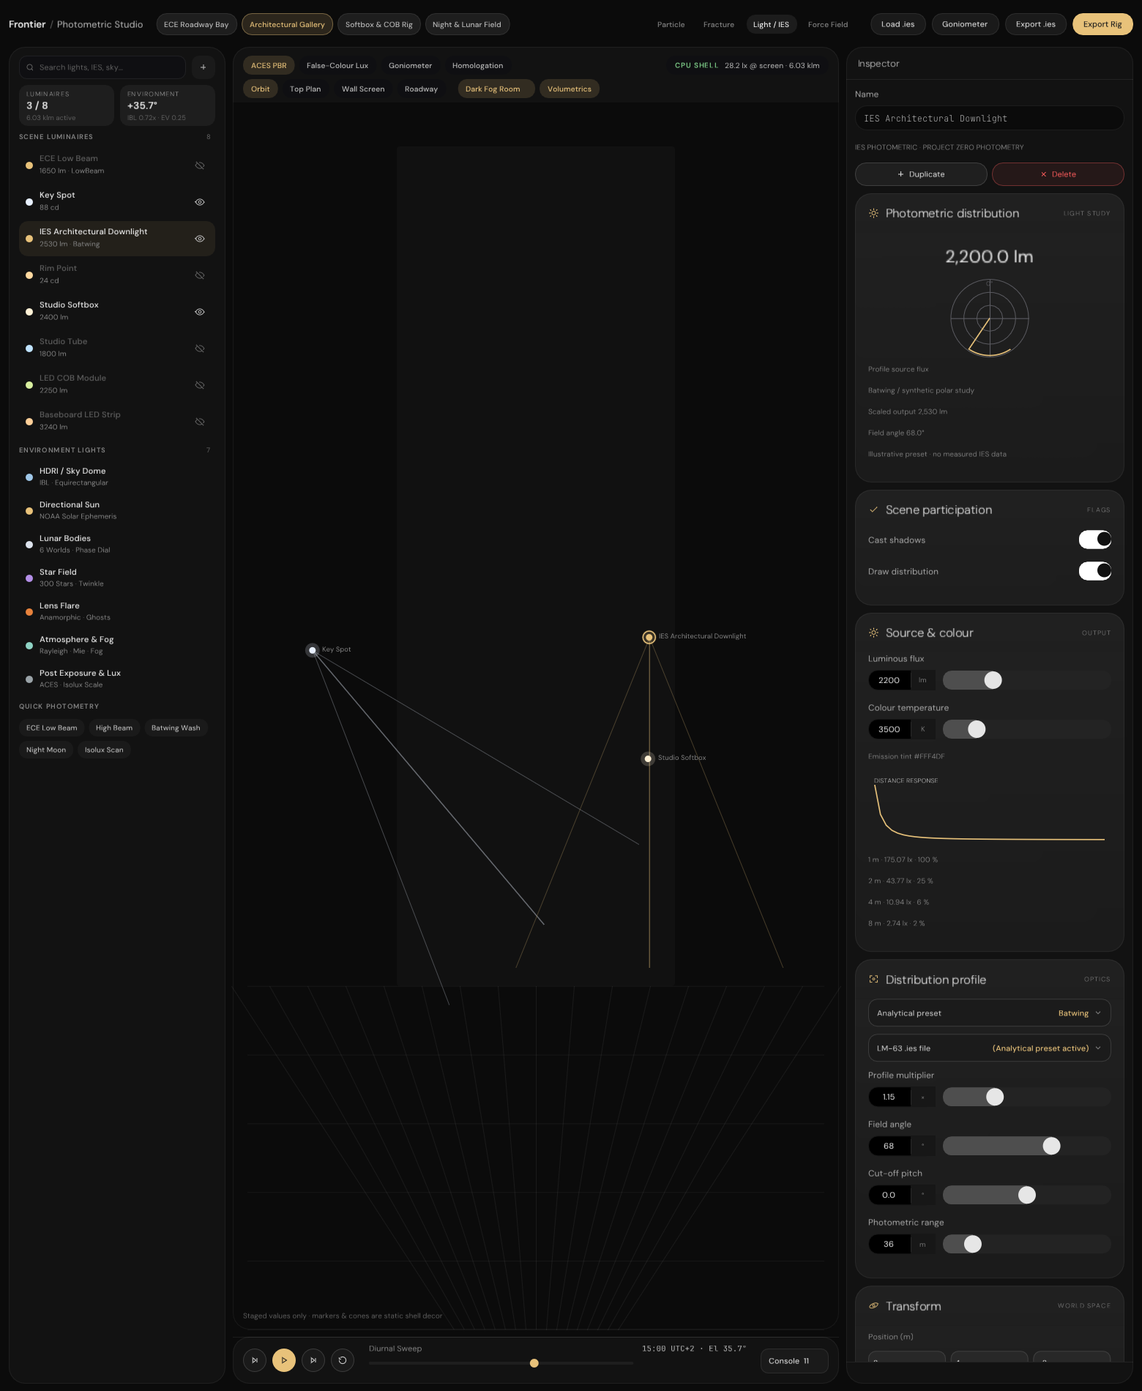
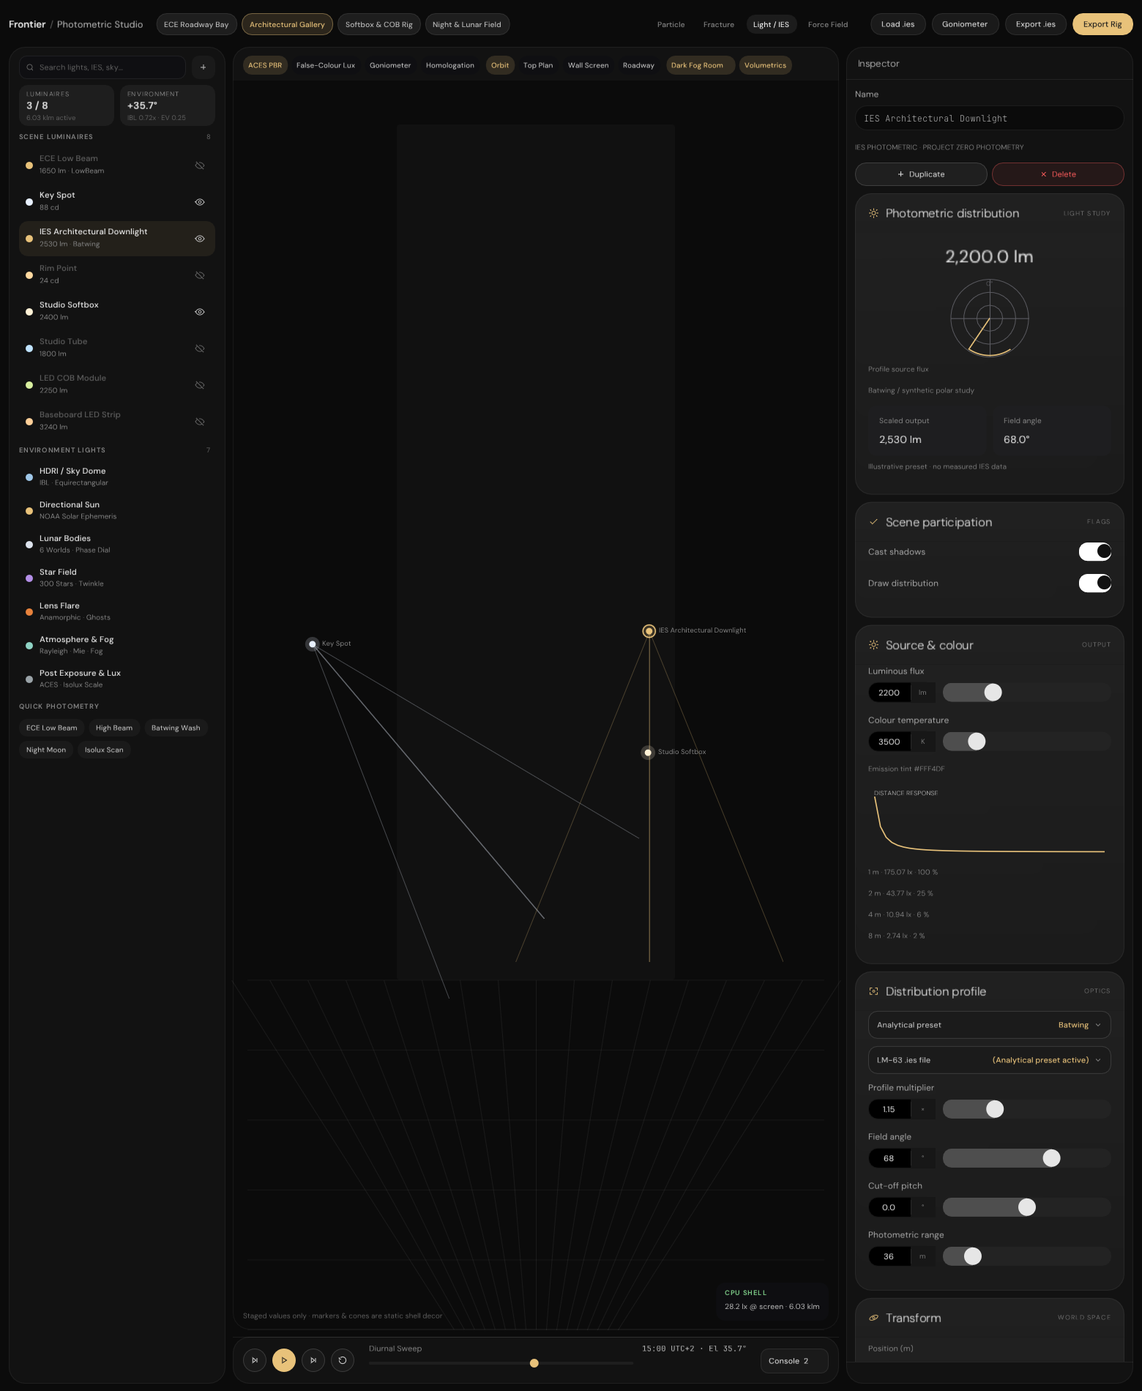
U5 fidelity pass: boot defaults, single-row HUD, preview tiles
Boot the default rig (6/8, 11.22 klm, 14:30 site time) with the roadway
tab highlighted but not applied, matching the reference boot flow; El
41.5 deg now matches the reference screenshot to the decimal. Collapse
the stage HUD to one compact pill row and park the telemetry chip at
the stage bottom-right like the reference backend readout. Render the
preview readings as side-by-side stat tiles. Re-pinned validation
(census 11220, lux 57-59, el 41-42) and refreshed all four evidence
frames.

diff --git a/Frontier/Engine/Interface/Workspaces/PhotometricWorkspace.cpp b/Frontier/Engine/Interface/Workspaces/PhotometricWorkspace.cpp
@@ -513,30 +513,23 @@ void ConstructAddDrawer(PhotometricWorkspaceState& State, const EditorTypefaces&
 void ConstructStageHud(PhotometricWorkspaceState& State, const EditorTypefaces& Faces, ImDrawList* DrawList, ImVec2 Min,
                        ImVec2 Max)
 {
+    // 📝 One compact pill row like the reference: lenses, cameras, then the room toggles. The telemetry chip
+    //    rides the stage bottom-right instead of crowding this row.
     PanelCursor Hud{ DrawList, &Faces, 1.0f, Min.x, Max.x - Min.x, Min.y };
-    // 📝 The telemetry chip is measured first so the lens pills can stop short of it; cameras and the room
-    //    toggles ride a second row because the full strip never fits beside the chip.
-    const double Klm = QueryPhotometricCensusLumens(State.Lights, 8) / 1000.0;
-    const double Lux = QueryPhotometricWallLux(State.Lights, 8);
-    char         Summary[96]{};
-    std::snprintf(Summary, sizeof(Summary), "%.1f lx @ screen · %.2f klm", Lux, Klm);
-    const float TeleWide = Hud.Measure(Faces.Regular, 10.5f, Summary) + Hud.Measure(Faces.SemiBold, 10.0f, "CPU SHELL") + 40.0f;
-    const ImVec2 TeleMax(Max.x - 14.0f, Min.y + 38.0f);
-    const ImVec2 TeleMin(TeleMax.x - TeleWide, Min.y + 12.0f);
-    const float  PillLimit = TeleMin.x - 10.0f;
-
     static const char* Lenses[4] = { "ACES PBR", "False-Colour Lux", "Goniometer", "Homologation" };
+    static const char* Cams[4]   = { "Orbit", "Top Plan", "Wall Screen", "Roadway" };
     float              PillX     = Min.x + 14.0f;
     const float        PillY     = Min.y + 12.0f;
+    const float        PillLimit = Max.x - 14.0f;
     for (int I = 0; I < 4; ++I)
     {
-        const float  Wide = Hud.Measure(Faces.Medium, 10.5f, Lenses[I]) + 22.0f;
+        const float  Wide = Hud.Measure(Faces.Medium, 10.0f, Lenses[I]) + 15.0f;
         if (PillX + Wide > PillLimit) break;
         const ImVec2 PillMin(PillX, PillY);
         const ImVec2 PillMax(PillX + Wide, PillY + 26.0f);
         const bool   Active = State.Lens == I;
         DrawList->AddRectFilled(PillMin, PillMax, ResolveCssColour(Active ? 0xE8C27A26 : 0x0E0F12D6), 13.0f);
-        Hud.Text(Faces.Medium, 10.5f, PillMin.x + 11.0f, PillY + 13.0f - 0.5f * 10.5f * 1.38f, 1.38f,
+        Hud.Text(Faces.Medium, 10.0f, PillMin.x + 7.5f, PillY + 13.0f - 0.5f * 10.0f * 1.38f, 1.38f,
                  ResolveCssColour(Active ? 0xE8C27AFF : 0xBCBCBCFF), Lenses[I]);
         char LensTag[32]{};
         std::snprintf(LensTag, sizeof(LensTag), "Stage/Lens%d", I);
@@ -544,25 +537,18 @@ void ConstructStageHud(PhotometricWorkspaceState& State, const EditorTypefaces& 
         RecordRect(State, LensTag, PillMin, PillMax);
         if (InvisibleRect("##Lens", PillMin, PillMax)) State.Lens = I;
         ImGui::PopID();
-        PillX = PillMax.x + 6.0f;
+        PillX = PillMax.x + 5.0f;
     }
-    DrawList->AddRectFilled(TeleMin, TeleMax, ResolveCssColour(0x0E0F12D6), 13.0f);
-    Hud.Text(Faces.SemiBold, 10.0f, TeleMin.x + 12.0f, Min.y + 25.0f - 0.5f * 10.0f * 1.4f, 1.4f,
-             ResolveCssColour(0x7FD08AFF), "CPU SHELL", 0.9f);
-    Hud.Text(Faces.Regular, 10.5f, TeleMin.x + 12.0f + Hud.Measure(Faces.SemiBold, 10.0f, "CPU SHELL", 0.9f) + 8.0f,
-             Min.y + 25.0f - 0.5f * 10.5f * 1.4f, 1.4f, ResolveCssColour(0xBCBCBCFF), Summary);
-
-    static const char* Cams[4] = { "Orbit", "Top Plan", "Wall Screen", "Roadway" };
-    float              CamX    = Min.x + 14.0f;
-    const float        CamY    = Min.y + 44.0f;
+    PillX += 3.0f;
     for (int I = 0; I < 4; ++I)
     {
-        const float  Wide = Hud.Measure(Faces.Medium, 10.5f, Cams[I]) + 22.0f;
-        const ImVec2 PillMin(CamX, CamY);
-        const ImVec2 PillMax(CamX + Wide, CamY + 26.0f);
+        const float  Wide = Hud.Measure(Faces.Medium, 10.0f, Cams[I]) + 15.0f;
+        if (PillX + Wide > PillLimit) break;
+        const ImVec2 PillMin(PillX, PillY);
+        const ImVec2 PillMax(PillX + Wide, PillY + 26.0f);
         const bool   Active = State.Camera == I;
         DrawList->AddRectFilled(PillMin, PillMax, ResolveCssColour(Active ? 0xE8C27A26 : 0x0E0F12D6), 13.0f);
-        Hud.Text(Faces.Medium, 10.5f, PillMin.x + 11.0f, CamY + 13.0f - 0.5f * 10.5f * 1.38f, 1.38f,
+        Hud.Text(Faces.Medium, 10.0f, PillMin.x + 7.5f, PillY + 13.0f - 0.5f * 10.0f * 1.38f, 1.38f,
                  ResolveCssColour(Active ? 0xE8C27AFF : 0xBCBCBCFF), Cams[I]);
         char CamTag[32]{};
         std::snprintf(CamTag, sizeof(CamTag), "Stage/Cam%d", I);
@@ -570,31 +556,36 @@ void ConstructStageHud(PhotometricWorkspaceState& State, const EditorTypefaces& 
         RecordRect(State, CamTag, PillMin, PillMax);
         if (InvisibleRect("##Cam", PillMin, PillMax)) State.Camera = I;
         ImGui::PopID();
-        CamX = PillMax.x + 6.0f;
+        PillX = PillMax.x + 5.0f;
     }
     {
-        const char*  Label = State.DarkRoom ? "Dark Fog Room" : "Environment Sky";
-        const float  Wide  = Hud.Measure(Faces.Medium, 10.5f, "Environment Sky") + 22.0f;
-        const ImVec2 PillMin(CamX + 10.0f, CamY);
-        const ImVec2 PillMax(PillMin.x + Wide, CamY + 26.0f);
-        DrawList->AddRectFilled(PillMin, PillMax, ResolveCssColour(State.DarkRoom ? 0xE8C27A26 : 0x0E0F12D6), 13.0f);
-        Hud.Text(Faces.Medium, 10.5f, PillMin.x + 11.0f, CamY + 13.0f - 0.5f * 10.5f * 1.38f, 1.38f,
-                 ResolveCssColour(State.DarkRoom ? 0xE8C27AFF : 0xBCBCBCFF), Label);
-        RecordRect(State, "Stage/DarkRoom", PillMin, PillMax);
-        if (InvisibleRect("##DarkRoom", PillMin, PillMax)) State.DarkRoom = !State.DarkRoom;
-        CamX = PillMax.x + 6.0f;
+        const char* Label = State.DarkRoom ? "Dark Fog Room" : "Environment Sky";
+        const float Wide  = Hud.Measure(Faces.Medium, 10.0f, "Environment Sky") + 15.0f;
+        if (PillX + 3.0f + Wide <= PillLimit)
+        {
+            const ImVec2 PillMin(PillX + 3.0f, PillY);
+            const ImVec2 PillMax(PillMin.x + Wide, PillY + 26.0f);
+            DrawList->AddRectFilled(PillMin, PillMax, ResolveCssColour(State.DarkRoom ? 0xE8C27A26 : 0x0E0F12D6), 13.0f);
+            Hud.Text(Faces.Medium, 10.0f, PillMin.x + 7.5f, PillY + 13.0f - 0.5f * 10.0f * 1.38f, 1.38f,
+                     ResolveCssColour(State.DarkRoom ? 0xE8C27AFF : 0xBCBCBCFF), Label);
+            RecordRect(State, "Stage/DarkRoom", PillMin, PillMax);
+            if (InvisibleRect("##DarkRoom", PillMin, PillMax)) State.DarkRoom = !State.DarkRoom;
+            PillX = PillMax.x + 5.0f;
+        }
     }
     {
-        const float  Wide = Hud.Measure(Faces.Medium, 10.5f, "Volumetrics") + 22.0f;
-        const ImVec2 PillMin(CamX, CamY);
-        const ImVec2 PillMax(CamX + Wide, CamY + 26.0f);
-        DrawList->AddRectFilled(PillMin, PillMax, ResolveCssColour(State.ShowGizmos ? 0xE8C27A26 : 0x0E0F12D6), 13.0f);
-        Hud.Text(Faces.Medium, 10.5f, PillMin.x + 11.0f, CamY + 13.0f - 0.5f * 10.5f * 1.38f, 1.38f,
-                 ResolveCssColour(State.ShowGizmos ? 0xE8C27AFF : 0xBCBCBCFF), "Volumetrics");
-        RecordRect(State, "Stage/Gizmos", PillMin, PillMax);
-        if (InvisibleRect("##Gizmos", PillMin, PillMax)) State.ShowGizmos = !State.ShowGizmos;
+        const float Wide = Hud.Measure(Faces.Medium, 10.0f, "Volumetrics") + 15.0f;
+        if (PillX + Wide <= PillLimit)
+        {
+            const ImVec2 PillMin(PillX, PillY);
+            const ImVec2 PillMax(PillX + Wide, PillY + 26.0f);
+            DrawList->AddRectFilled(PillMin, PillMax, ResolveCssColour(State.ShowGizmos ? 0xE8C27A26 : 0x0E0F12D6), 13.0f);
+            Hud.Text(Faces.Medium, 10.0f, PillMin.x + 7.5f, PillY + 13.0f - 0.5f * 10.0f * 1.38f, 1.38f,
+                     ResolveCssColour(State.ShowGizmos ? 0xE8C27AFF : 0xBCBCBCFF), "Volumetrics");
+            RecordRect(State, "Stage/Gizmos", PillMin, PillMax);
+            if (InvisibleRect("##Gizmos", PillMin, PillMax)) State.ShowGizmos = !State.ShowGizmos;
+        }
     }
-
 }
 
 void ConstructLightStage(PhotometricWorkspaceState& State, const EditorTypefaces& Faces, ImDrawList* DrawList,
@@ -674,6 +665,24 @@ void ConstructLightStage(PhotometricWorkspaceState& State, const EditorTypefaces
 
     Surface.Text(Faces.Regular, 10.0f, Min.x + 14.0f, Max.y - 26.0f, 1.4f, ResolveCssColour(0x5E5E5EFF),
                  "Staged values only · markers & cones are static shell decor");
+
+    // 📝 Bottom-right telemetry chip, where the reference parks its backend readout.
+    {
+        const double Klm = QueryPhotometricCensusLumens(State.Lights, 8) / 1000.0;
+        const double Lux = QueryPhotometricWallLux(State.Lights, 8);
+        char         Summary[96]{};
+        std::snprintf(Summary, sizeof(Summary), "%.1f lx @ screen · %.2f klm", Lux, Klm);
+        const float  BackWide = Surface.Measure(Faces.SemiBold, 9.5f, "CPU SHELL", 0.9f);
+        const float  SumWide  = Surface.Measure(Faces.Regular, 10.5f, Summary);
+        const float  ChipWide = (BackWide > SumWide ? BackWide : SumWide) + 24.0f;
+        const ImVec2 ChipMax(Max.x - 14.0f, Max.y - 12.0f);
+        const ImVec2 ChipMin(ChipMax.x - ChipWide, ChipMax.y - 52.0f);
+        DrawList->AddRectFilled(ChipMin, ChipMax, ResolveCssColour(0x0E0F12D6), 12.0f);
+        Surface.Text(Faces.SemiBold, 9.5f, ChipMin.x + 12.0f, ChipMin.y + 7.0f, 1.4f,
+                     ResolveCssColour(0x7FD08AFF), "CPU SHELL", 0.9f);
+        Surface.Text(Faces.Regular, 10.5f, ChipMin.x + 12.0f, ChipMin.y + 25.0f, 1.4f,
+                     ResolveCssColour(0xBCBCBCFF), Summary);
+    }
 
     ImGui::PushID("LightStage");
     RecordRect(State, "Stage/Surface", Min, Max);
@@ -979,7 +988,7 @@ void ConstructPhotometricWorkspace(PhotometricWorkspaceState& State, const Edito
     // 📝 The HUD submits before the stage surface so its pills win the shared strip; the surface starts below
     //    row two so neither paints over the other.
     ConstructStageHud(State, Faces, DrawList, CentreMin, ImVec2(StageMax.x, CentreMin.y + 120.0f));
-    ConstructLightStage(State, Faces, DrawList, ImVec2(CentreMin.x, CentreMin.y + 76.0f), StageMax);
+    ConstructLightStage(State, Faces, DrawList, ImVec2(CentreMin.x, CentreMin.y + 46.0f), StageMax);
     DrawList->AddRect(CentreMin, StageMax, ResolveCssColour(0xFFFFFF0E), 22.0f, ImDrawFlags_None, 1.0f);
 
     if (State.ConsoleOpen)

diff --git a/Frontier/Engine/Interface/Workspaces/PhotometricWorkspaceInspector.cpp b/Frontier/Engine/Interface/Workspaces/PhotometricWorkspaceInspector.cpp
@@ -236,21 +236,26 @@ void ConstructLightPreview(PhotometricWorkspaceState& State, ControlColumn& Colu
     if (State.OpenCards[PhotometricWorkspaceState::CardPreview])
     {
         DrawLightHeroCanvas(Column, Light);
-        char Caption[128]{}, Descriptor[160]{}, ReadA[96]{}, ReadB[96]{};
+        char Caption[128]{}, Descriptor[160]{};
+        char TileAL[48]{}, TileAV[64]{}, TileBL[48]{}, TileBV[64]{};
         if (Type == 0)
         {
             std::snprintf(Caption, sizeof(Caption), "Authored luminous intensity");
             std::snprintf(Descriptor, sizeof(Descriptor), "Omnidirectional / decay %.1f", P.Decay);
-            std::snprintf(ReadA, sizeof(ReadA), "At 5 m · estimate %.2f lx", P.Intensity / std::pow(5.0, P.Decay));
-            std::snprintf(ReadB, sizeof(ReadB), "Reach %.0f m", P.Distance);
+            std::snprintf(TileAL, sizeof(TileAL), "At 5 m · estimate");
+            std::snprintf(TileAV, sizeof(TileAV), "%.2f lx", P.Intensity / std::pow(5.0, P.Decay));
+            std::snprintf(TileBL, sizeof(TileBL), "Reach");
+            std::snprintf(TileBV, sizeof(TileBV), "%.0f m", P.Distance);
         }
         else if (Type == 1)
         {
             std::snprintf(Caption, sizeof(Caption), "Authored luminous intensity");
             std::snprintf(Descriptor, sizeof(Descriptor), "%.0f° cone / %d%% soft edge", P.Angle * 2.0,
                           static_cast<int>(std::round(P.Penumbra * 100.0)));
-            std::snprintf(ReadA, sizeof(ReadA), "Full cone %.1f°", P.Angle * 2.0);
-            std::snprintf(ReadB, sizeof(ReadB), "Soft edge %d %%", static_cast<int>(std::round(P.Penumbra * 100.0)));
+            std::snprintf(TileAL, sizeof(TileAL), "Full cone");
+            std::snprintf(TileAV, sizeof(TileAV), "%.1f°", P.Angle * 2.0);
+            std::snprintf(TileBL, sizeof(TileBL), "Soft edge");
+            std::snprintf(TileBV, sizeof(TileBV), "%d %%", static_cast<int>(std::round(P.Penumbra * 100.0)));
         }
         else if (Type == 2)
         {
@@ -263,8 +268,10 @@ void ConstructLightPreview(PhotometricWorkspaceState& State, ControlColumn& Colu
                               QueryPhotometricPresetIes(P.PresetProfile));
             char Scaled[40]{};
             FormatGrouped(P.Lumens * P.Multiplier, Scaled, sizeof(Scaled));
-            std::snprintf(ReadA, sizeof(ReadA), "Scaled output %s lm", Scaled);
-            std::snprintf(ReadB, sizeof(ReadB), "Field angle %.1f°", P.Cone);
+            std::snprintf(TileAL, sizeof(TileAL), "Scaled output");
+            std::snprintf(TileAV, sizeof(TileAV), "%s lm", Scaled);
+            std::snprintf(TileBL, sizeof(TileBL), "Field angle");
+            std::snprintf(TileBV, sizeof(TileBV), "%.1f°", P.Cone);
         }
         else if (Type == 3)
         {
@@ -272,8 +279,10 @@ void ConstructLightPreview(PhotometricWorkspaceState& State, ControlColumn& Colu
             std::snprintf(Descriptor, sizeof(Descriptor), "%s / %.1f × %.1f m aperture",
                           P.Aperture == 1 ? "Disk" : "Rectangle", P.Width, P.Height);
             const double Area = P.Aperture == 1 ? 3.14159265 * (P.Width * 0.5) * (P.Width * 0.5) : P.Width * P.Height;
-            std::snprintf(ReadA, sizeof(ReadA), "Aperture %.2f m²", Area);
-            std::snprintf(ReadB, sizeof(ReadB), "Emission %s", P.TwoSided ? "Two-sided" : "One-sided");
+            std::snprintf(TileAL, sizeof(TileAL), "Aperture");
+            std::snprintf(TileAV, sizeof(TileAV), "%.2f m²", Area);
+            std::snprintf(TileBL, sizeof(TileBL), "Emission");
+            std::snprintf(TileBV, sizeof(TileBV), "%s", P.TwoSided ? "Two-sided" : "One-sided");
         }
         else if (Type == 4)
         {
@@ -281,28 +290,39 @@ void ConstructLightPreview(PhotometricWorkspaceState& State, ControlColumn& Colu
             std::snprintf(Descriptor, sizeof(Descriptor), "%.1f m linear emitter", P.Length);
             char PerM[40]{};
             FormatGrouped(P.Lumens / (P.Length > 0.01 ? P.Length : 1.0), PerM, sizeof(PerM));
-            std::snprintf(ReadA, sizeof(ReadA), "Linear output %s lm/m", PerM);
-            std::snprintf(ReadB, sizeof(ReadB), "Tube radius %d mm", static_cast<int>(std::round(P.Radius * 1000.0)));
+            std::snprintf(TileAL, sizeof(TileAL), "Linear output");
+            std::snprintf(TileAV, sizeof(TileAV), "%s lm/m", PerM);
+            std::snprintf(TileBL, sizeof(TileBL), "Tube radius");
+            std::snprintf(TileBV, sizeof(TileBV), "%d mm", static_cast<int>(std::round(P.Radius * 1000.0)));
         }
         else if (Type == 5)
         {
             std::snprintf(Caption, sizeof(Caption), "Estimated luminous flux");
             std::snprintf(Descriptor, sizeof(Descriptor), "%.0f mm package / %.0f K", P.Diameter, P.Temperature);
-            std::snprintf(ReadA, sizeof(ReadA), "Driver power %.1f W", P.Watts * P.Dimmer);
-            std::snprintf(ReadB, sizeof(ReadB), "Efficacy target %.0f lm/W", P.Efficacy);
+            std::snprintf(TileAL, sizeof(TileAL), "Driver power");
+            std::snprintf(TileAV, sizeof(TileAV), "%.1f W", P.Watts * P.Dimmer);
+            std::snprintf(TileBL, sizeof(TileBL), "Efficacy target");
+            std::snprintf(TileBV, sizeof(TileBV), "%.0f lm/W", P.Efficacy);
         }
         else
         {
             std::snprintf(Caption, sizeof(Caption), "Estimated luminous flux");
             std::snprintf(Descriptor, sizeof(Descriptor), "Horizontal / %.1f m run", P.Length);
-            std::snprintf(ReadA, sizeof(ReadA), "Connected load %.1f W", P.WattsPerMetre * P.Length * P.Dimmer);
-            std::snprintf(ReadB, sizeof(ReadB), "Emitter count %d LEDs",
+            std::snprintf(TileAL, sizeof(TileAL), "Connected load");
+            std::snprintf(TileAV, sizeof(TileAV), "%.1f W", P.WattsPerMetre * P.Length * P.Dimmer);
+            std::snprintf(TileBL, sizeof(TileBL), "Emitter count");
+            std::snprintf(TileBV, sizeof(TileBV), "%d LEDs",
                           static_cast<int>(std::round(P.LedsPerMetre * P.Length)));
         }
         ConstructCaption(Column, Caption);
         ConstructCaption(Column, Descriptor);
-        ConstructCaption(Column, ReadA);
-        ConstructCaption(Column, ReadB);
+        DiagramPen Tiles = DiagramCanvas::Begin(Column, "LightReadTiles", 300.0f, 62.0f, 6.0f, 4.0f);
+        Tiles.Rect(ImVec2(0.0f, 0.0f), ImVec2(146.0f, 62.0f), IM_COL32(30, 30, 32, 255), 10.0f);
+        Tiles.Rect(ImVec2(154.0f, 0.0f), ImVec2(146.0f, 62.0f), IM_COL32(30, 30, 32, 255), 10.0f);
+        Tiles.Text(ImVec2(14.0f, 22.0f), TileAL, IM_COL32(132, 132, 132, 255), 9.5f, -1);
+        Tiles.Text(ImVec2(14.0f, 46.0f), TileAV, IM_COL32(239, 239, 239, 255), 13.0f, -1);
+        Tiles.Text(ImVec2(168.0f, 22.0f), TileBL, IM_COL32(132, 132, 132, 255), 9.5f, -1);
+        Tiles.Text(ImVec2(168.0f, 46.0f), TileBV, IM_COL32(239, 239, 239, 255), 13.0f, -1);
         if (Type == 2)
             ConstructCaption(Column, P.UseMeasuredIes ? "Measured LM-63 .ies candela grid active"
                                                       : "Illustrative preset · no measured IES data");

diff --git a/Exhibits/PhotometricWorkspace/Code/PhotometricWorkspaceValidation.cpp b/Exhibits/PhotometricWorkspace/Code/PhotometricWorkspaceValidation.cpp
@@ -82,7 +82,8 @@ int main(int ArgumentCount, char** Arguments)
             Frame();
         };
 
-        // 1. Boot: the studio opens on the ECE low beam under the roadway rig; catalogues hold pinned order.
+        // 1. Boot: the studio opens on the ECE low beam with the default rig (roadway tab highlighted but not
+        //    applied); catalogues hold pinned order.
         Frame();
         Frame();
         Confirm(QueryPhotometricLightSpecCount() == 7, "The light-type catalogue lost entries");
@@ -94,16 +95,18 @@ int main(int ArgumentCount, char** Arguments)
         Confirm(std::strcmp(QueryPhotometricPresetIes(3), "ECE Low Beam") == 0, "ECE Low Beam is out of order");
         Confirm(QueryPhotometricMoonCount() == 6, "The moon catalogue lost entries");
         Confirm(State.Selected == 0, "The workspace did not boot on the ECE low beam");
-        Confirm(State.Scenario == PhotometricWorkspaceState::ScenarioRoadway, "The workspace did not boot the roadway rig");
-        Confirm(State.Camera == PhotometricWorkspaceState::CameraRoadway, "The roadway rig missed its camera");
+        Confirm(State.Scenario == PhotometricWorkspaceState::ScenarioRoadway, "The workspace did not boot the roadway tab");
+        Confirm(State.Camera == PhotometricWorkspaceState::CameraOrbit, "The workspace did not boot the orbit camera");
+        Confirm(std::fabs(State.Sun.LocalHours - 14.5) < 1.0e-9, "The workspace did not boot at 14:30 site time");
         Confirm(State.Log.size() == 1, "The boot produced the wrong number of log lines");
         Confirm(State.Log.front().Channel == "RIG", "The boot line missed its RIG channel");
         {
             const double Census = QueryPhotometricCensusLumens(State.Lights, 8);
-            Confirm(std::fabs(Census - 5190.0) < 0.5, "The roadway census missed 5.19 klm");
+            Confirm(std::fabs(Census - 11220.0) < 0.5, "The default census missed 11.22 klm");
             const double Lux = QueryPhotometricWallLux(State.Lights, 8);
-            Confirm(Lux > 29.0 && Lux < 31.0, "The wall-screen estimate left its 29-31 lx band");
-            Confirm(State.SunSolved.ElevationDeg < 5.0, "The 21:12 sun is still above the horizon band");
+            Confirm(Lux > 57.0 && Lux < 59.0, "The wall-screen estimate left its 57-59 lx band");
+            Confirm(State.SunSolved.ElevationDeg > 41.0 && State.SunSolved.ElevationDeg < 42.0,
+                    "The 14:30 sun left its 41-42° band");
         }
 
         // 2. Outliner: luminaire rows select silently; eye keys toggle visibility and the census follows.
@@ -113,7 +116,7 @@ int main(int ArgumentCount, char** Arguments)
         Confirm(State.Selected == 7, "Clicking the strip did not select it");
         Click("Outliner/Eye7");
         Confirm(!State.Lights[7].Visible, "The strip eye did not hide the strip");
-        Confirm(std::fabs(QueryPhotometricCensusLumens(State.Lights, 8) - 1950.0) < 0.5,
+        Confirm(std::fabs(QueryPhotometricCensusLumens(State.Lights, 8) - 7980.0) < 0.5,
                 "The census did not drop the hidden strip");
         Click("Outliner/Eye7");
         Confirm(State.Lights[7].Visible, "The strip eye did not restore the strip");
@@ -320,8 +323,8 @@ int main(int ArgumentCount, char** Arguments)
             std::string Stem = Arguments[1];
             const size_t Dot = Stem.rfind(".ppm");
             if (Dot != std::string::npos && Dot + 4 == Stem.size()) Stem.erase(Dot);
-            Click("TopBar/Rig0");
-            Click("Outliner/Light0");
+            ConstructPhotometricWorkspaceState(State);
+            Frame();
             RenderEvidence((Stem + "-overview.ppm").c_str());
             Click("Stage/Lens1");
             RenderEvidence((Stem + "-lux.ppm").c_str());

diff --git a/Frontier/Engine/Interface/Workspaces/PhotometricWorkspaceCatalogue.cpp b/Frontier/Engine/Interface/Workspaces/PhotometricWorkspaceCatalogue.cpp
@@ -366,7 +366,30 @@ void ConstructPhotometricWorkspaceState(PhotometricWorkspaceState& State)
         Dst.Locked  = false;
         Dst.Props   = QueryPhotometricLightSeedProps(I);
     }
-    ApplyPhotometricScenario(State, PhotometricWorkspaceState::ScenarioRoadway);
+    // 📝 The reference boots the default rig (6/8 visible, 14:30 site time) with the roadway tab merely
+    //    highlighted; scenarios apply only when their tabs are clicked.
+    State.Sun   = PhotometricSunProps{};
+    State.Dome  = PhotometricEnvDome{};
+    State.Moon  = PhotometricMoon{};
+    State.Stars = PhotometricStars{};
+    State.Flare = PhotometricLensFlare{};
+    State.Fog   = PhotometricFog{};
+    State.Post  = PhotometricPost{};
+    State.Scenario     = PhotometricWorkspaceState::ScenarioRoadway;
+    State.Selected     = PhotometricWorkspaceState::SelectedLight0;
+    State.Lens         = PhotometricWorkspaceState::LensPbr;
+    State.Camera       = PhotometricWorkspaceState::CameraOrbit;
+    State.DarkRoom     = true;
+    State.ShowGizmos   = true;
+    State.SweepPlaying = false;
+    State.ConsoleOpen  = false;
+    State.MatrixOpen   = false;
+    State.AddDrawerOpen = false;
+    State.SearchQuery.clear();
+    State.NoopCount           = 0;
+    State.ExportIesNoopRaised = false;
+    State.ExportRigNoopRaised = false;
+    EvaluatePhotometricSun(State.Sun, State.SunSolved);
     State.Log.clear();
     AppendPhotometricWorkspaceLog(State, "RIG", "Photometric studio ready · 8 luminaires · 7 environment lights");
 }

diff --git a/Documentation/Plans/Ongoing/RemasteredUiConversionPlan.md b/Documentation/Plans/Ongoing/RemasteredUiConversionPlan.md
@@ -123,7 +123,7 @@ Rules for NOOP shells:
   alpha fills (low-byte masks shift red, not alpha).
 - [x] **U5. Photometric & Light Workspace (stretch):** DONE 2026-11-09 — rig tab bar
   (4 scenarios reset rig+env, stage visibility/selection/camera) · luminaire +
-  environment outliner (search, eye keys, census 12.22 klm default) · quick
+  environment outliner (search, eye keys, census 11.22 klm default · boots defaults) · quick
   photometry chips · two-row lens/camera HUD + wall-lux telemetry (faithful
   SampleStagePointLux mirror, R2>=0.25, IES screen-gain table) + isolux legend ·
   luminaire stage (markers + spot/IES cones) · diurnal transport + scrubber +
